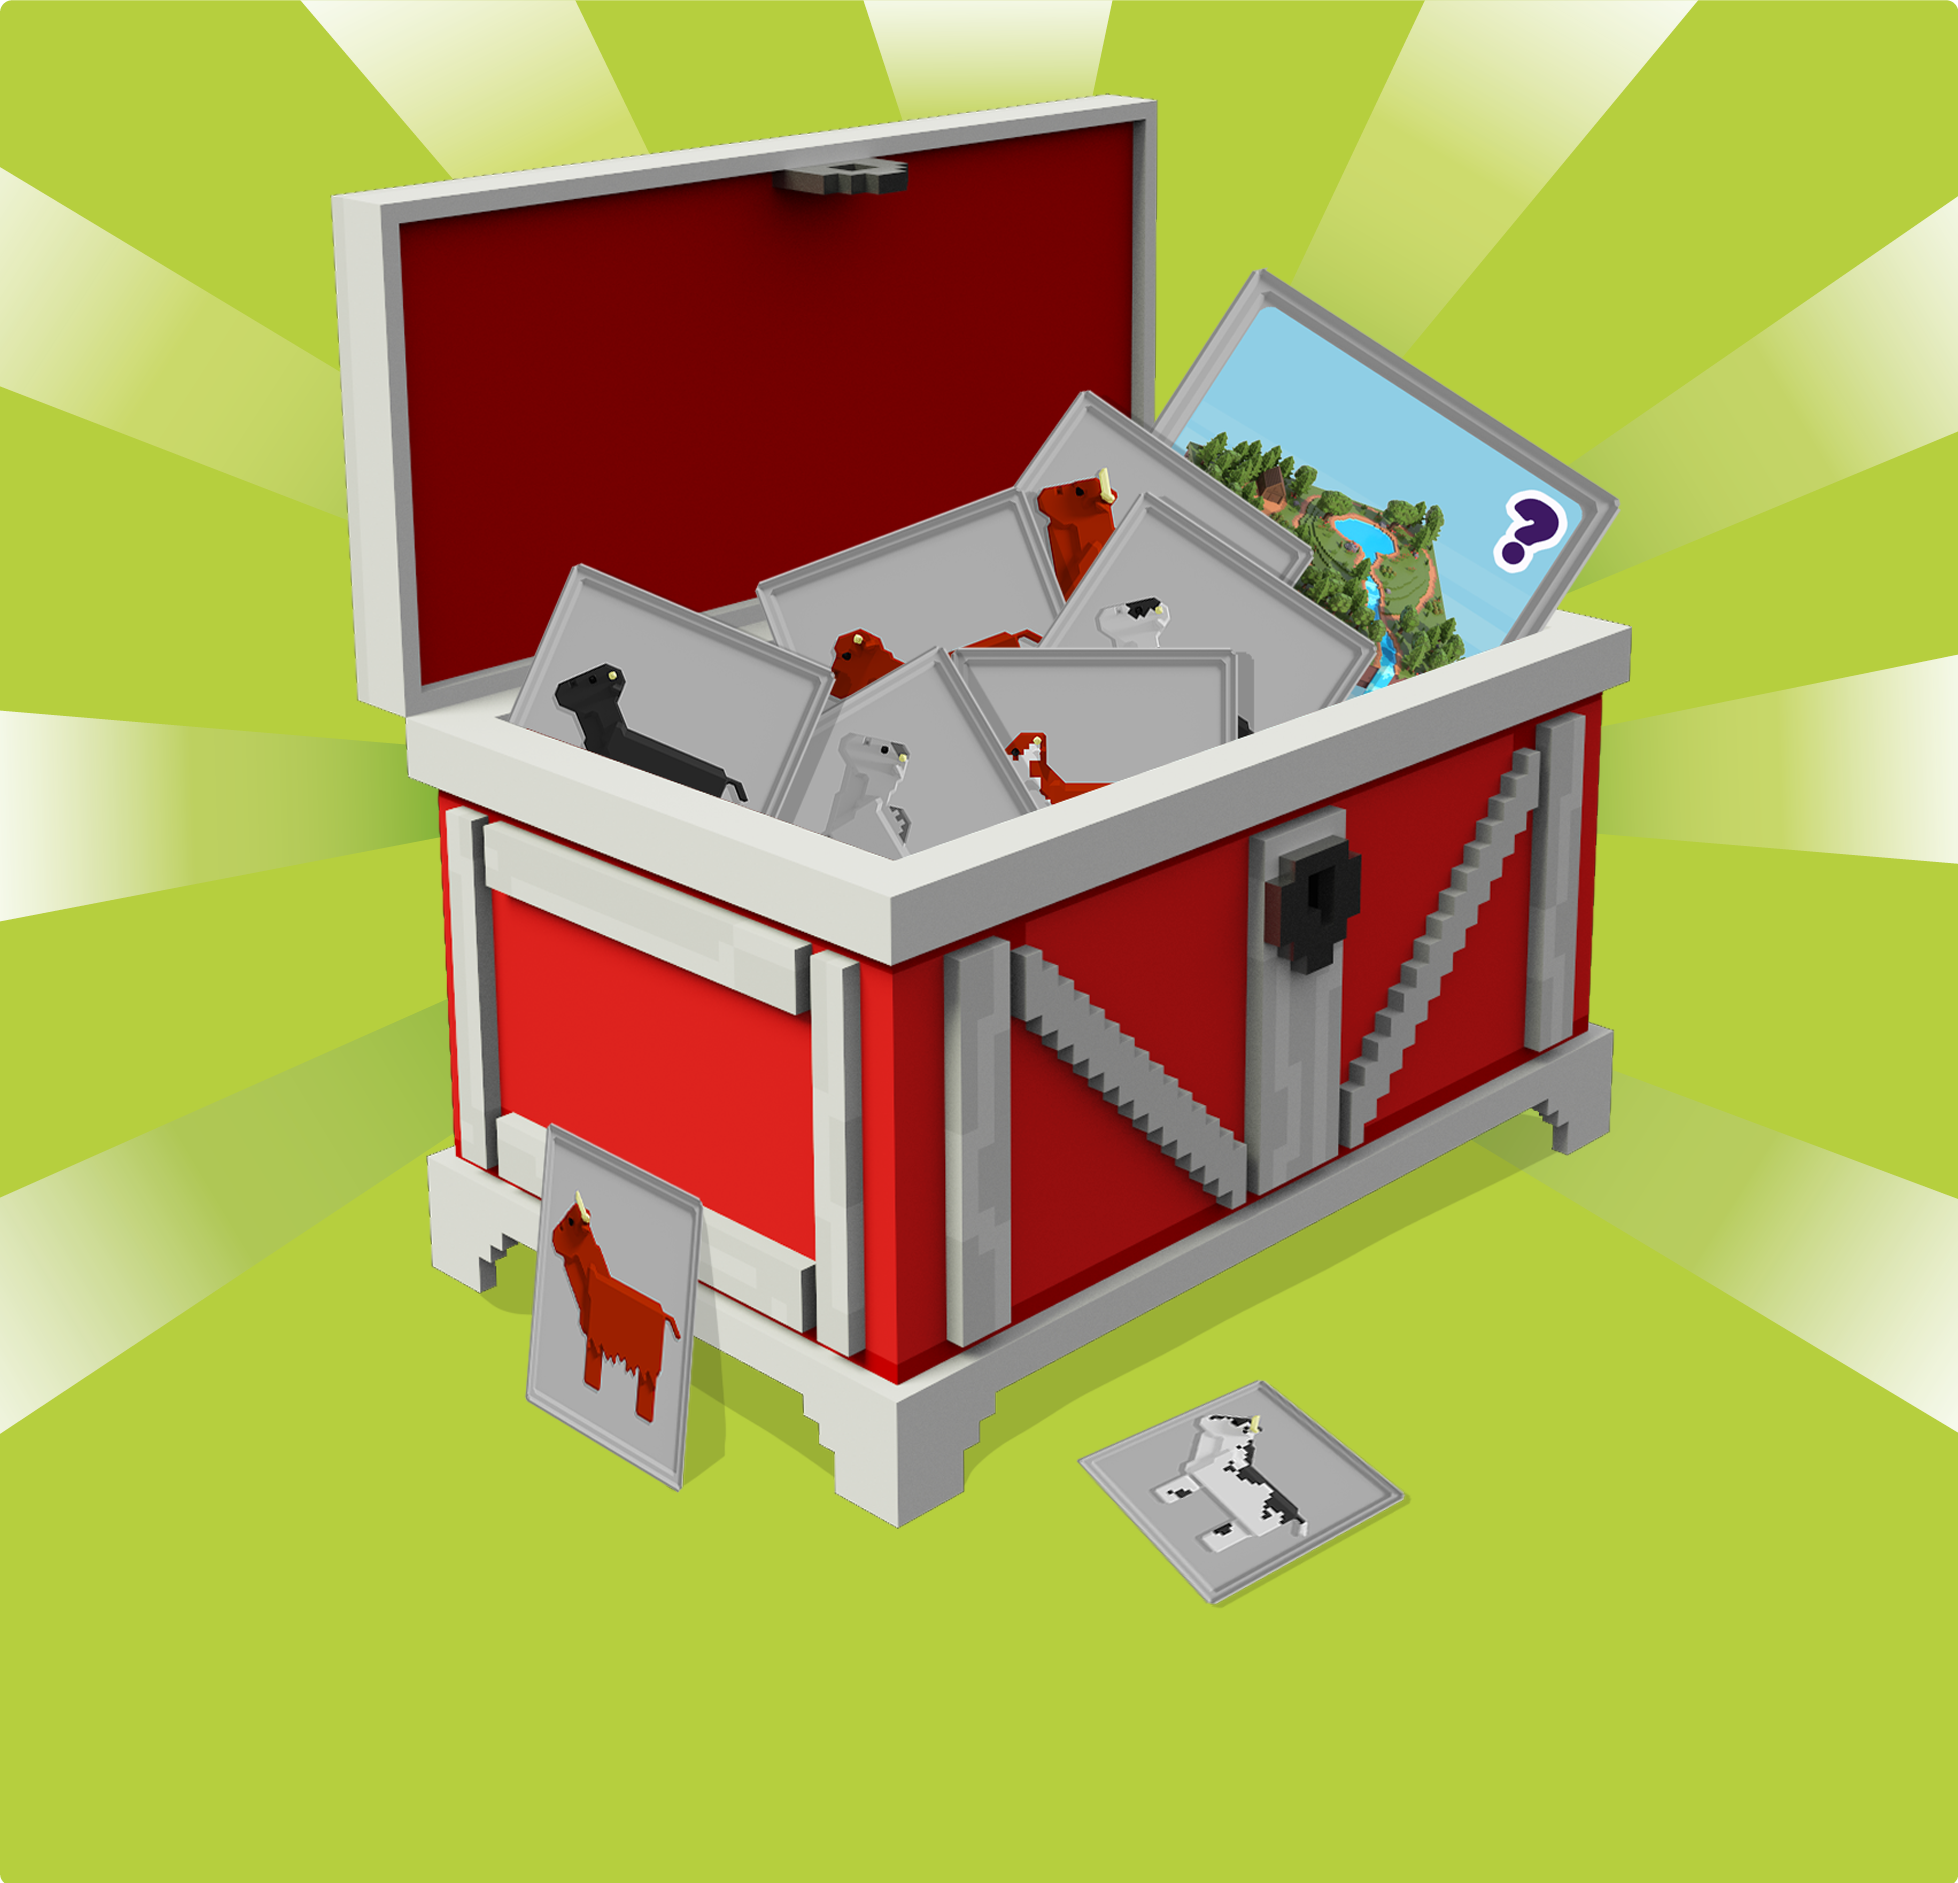
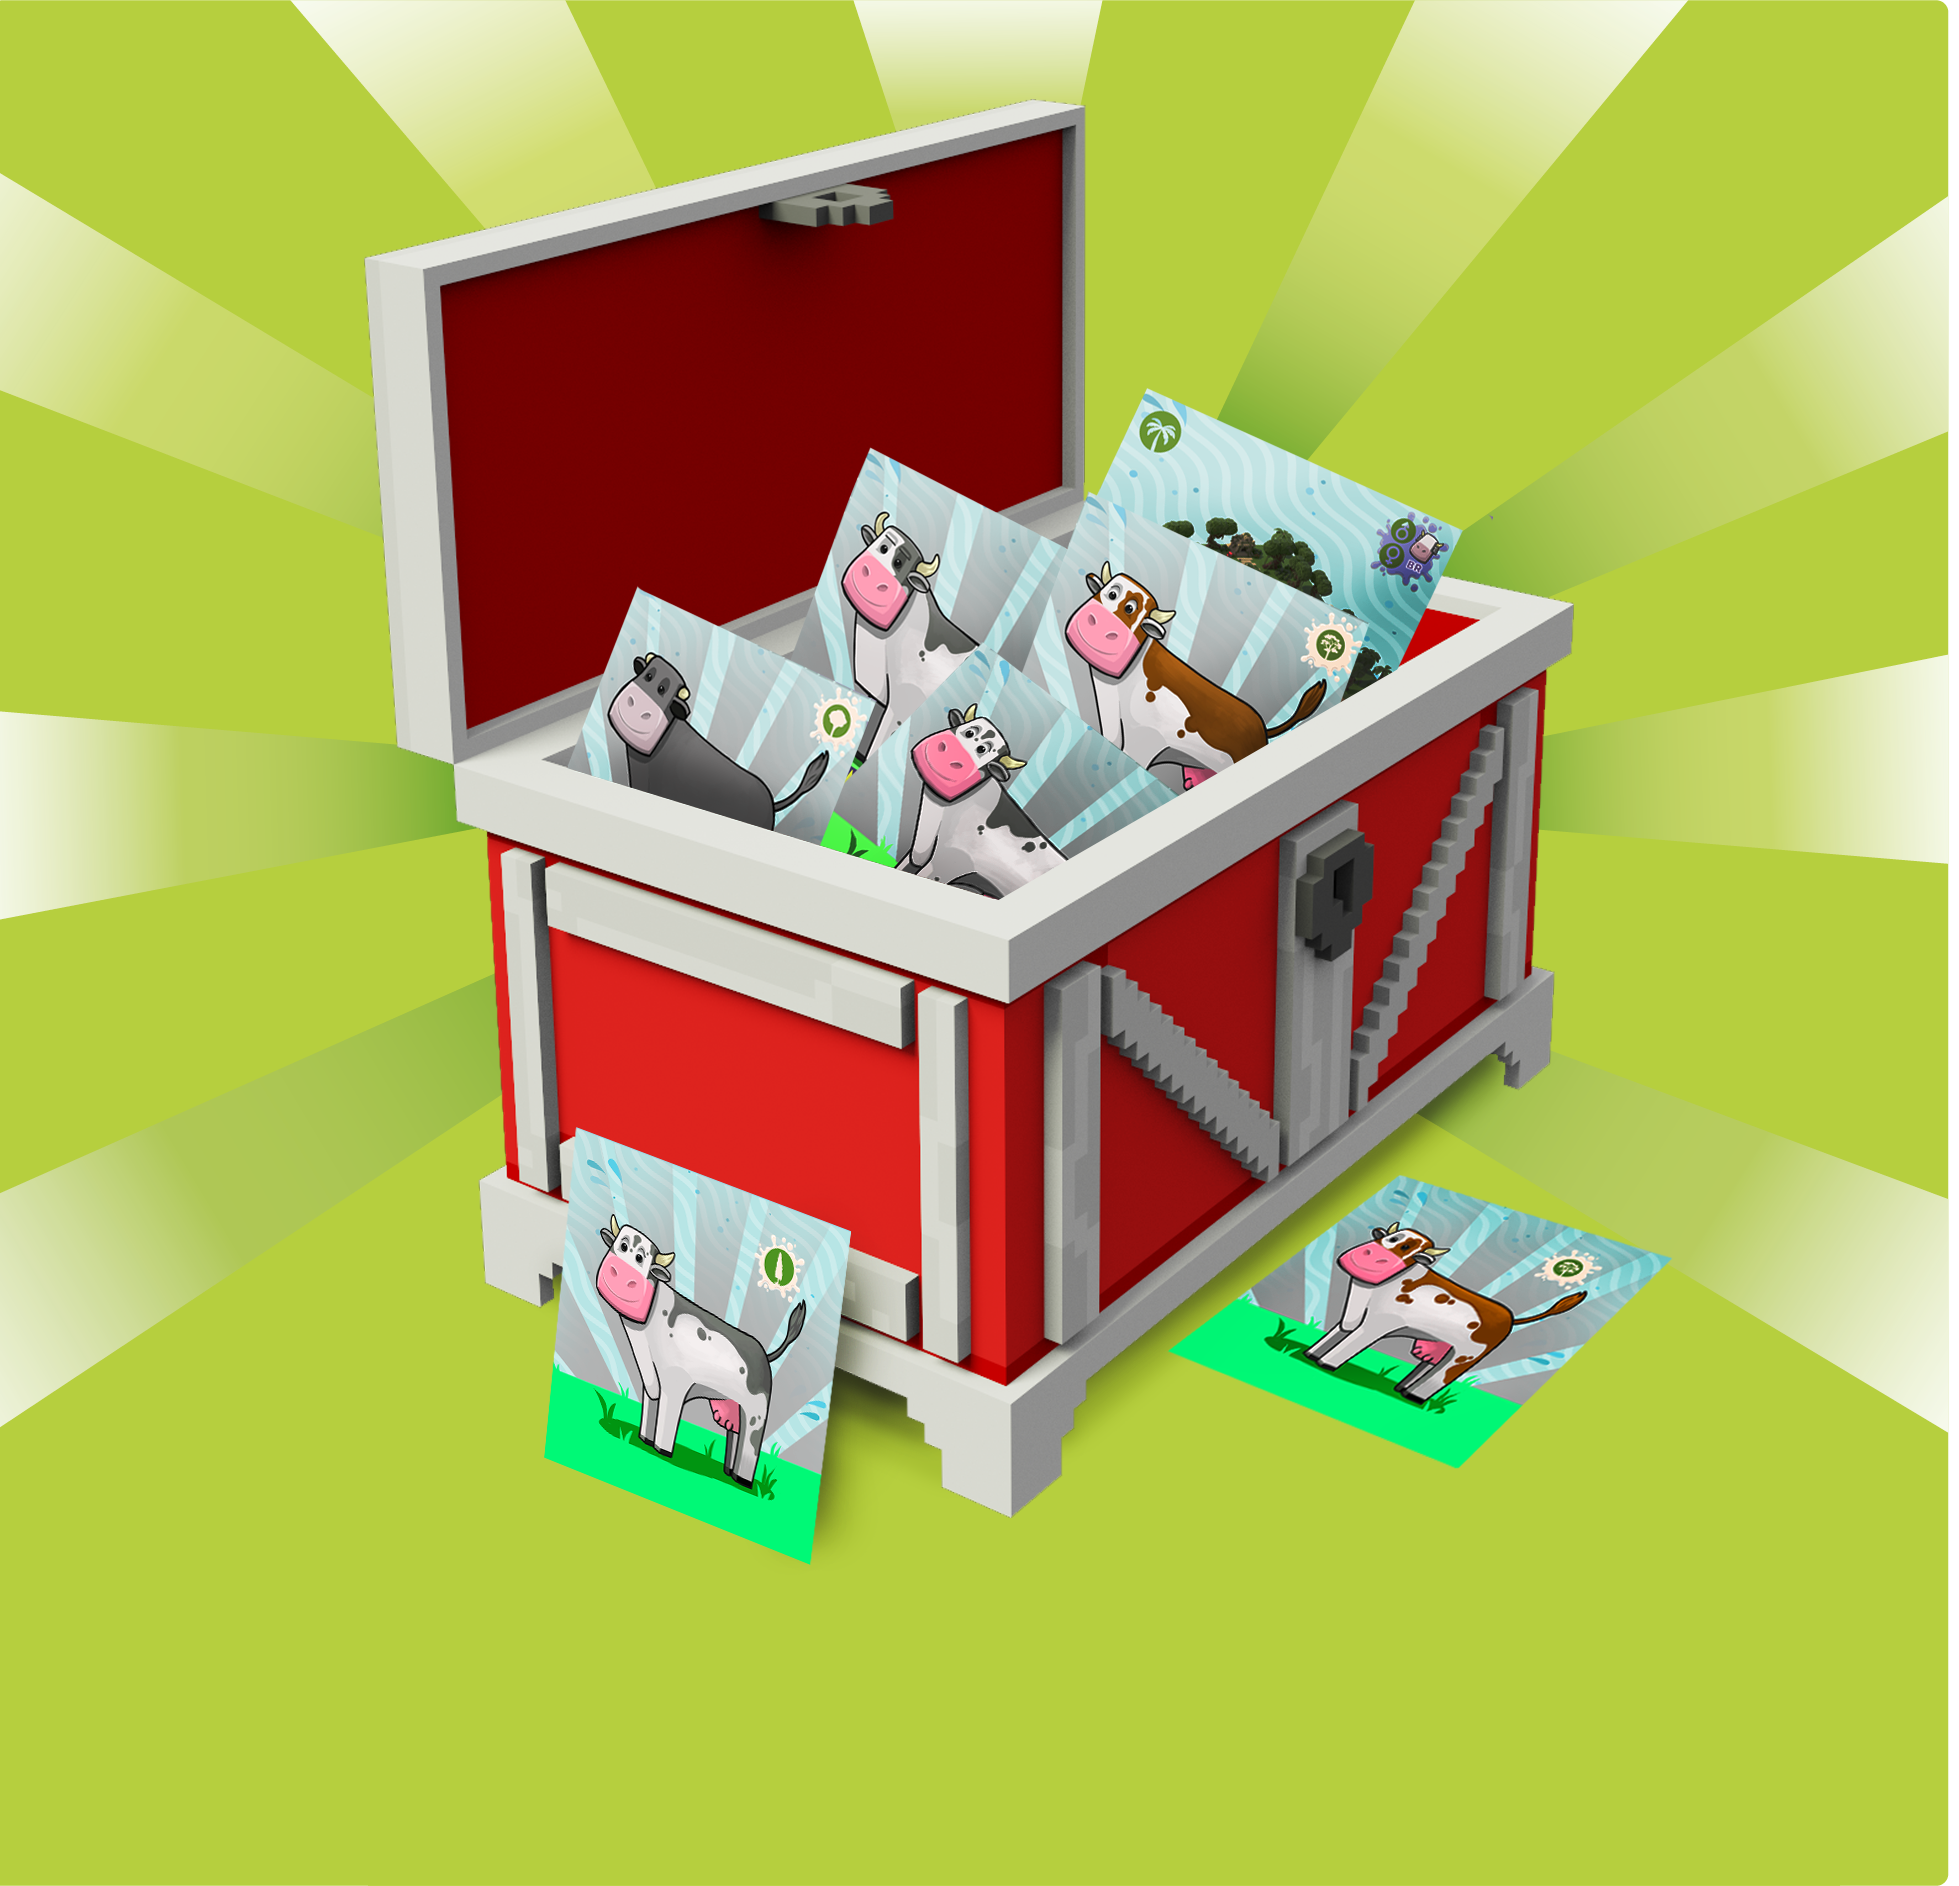
:rocket: v0.1a Fixed

diff --git a/src/views/Blindbox/index.tsx b/src/views/Blindbox/index.tsx
@@ -1,4 +1,4 @@
-import React, {useCallback, useEffect, useMemo, useState} from 'react'
+import React, { useCallback, useEffect, useMemo, useState } from 'react'
 import styled, { useTheme } from 'styled-components'
 import { Link } from 'react-router-dom'
 import { Heading } from 'cashcow-uikit'
@@ -33,24 +33,24 @@ const Blindbox = () => {
 
     const { isDark } = useTheme()
     const [packState, setPackState] = useState(2);
-    const saleContract = useMemo(() =>{
+    const saleContract = useMemo(() => {
         return new web3.eth.Contract(NftSale.abi as AbiItem[], getNftSaleAddress());
-    },[]) 
+    }, [])
     const fetchPackSaleState = useCallback(async () => {
         const endTime = await saleContract.methods.packSaleEnd().call()
         const startTIme = await saleContract.methods.packSaleStart().call()
         const currentTime = (await web3.eth.getBlock("latest")).timestamp;
-        if(toBN(currentTime.toString()).lt( startTIme ) ) {
+        if (toBN(currentTime.toString()).lt(startTIme)) {
             setPackState(0);
-        } else if(toBN(currentTime.toString()).gt( endTime ) ) {
+        } else if (toBN(currentTime.toString()).gt(endTime)) {
             setPackState(2);
         } else {
             setPackState(1);
         }
-    },[]);
-    useEffect(() =>{
+    }, []);
+    useEffect(() => {
         fetchPackSaleState();
-    },[])
+    }, [])
 
     return (
         <Page
@@ -66,13 +66,36 @@ const Blindbox = () => {
                     Blind Box
                 </Heading>
             </StyledHero>
-            <Link key={0} to={`/blind-box/1`}><BlindBoxItem background="banner_tamano_desenfocado_2940x510.png" itemId={0} itemTitle="HappyCows Box" /></Link>
-            {
+
+            <Link key={0} to={`/blind-box/1`}>
+                <BlindBoxItem
+                    background="banner_tamano_desenfocado_2940x510.png"
+                    itemId={0}
+                    itemTitle="HappyCows Box"
+                />
+            </Link>
+
+            <Link key={2} to={`/blind-box/individual`}>
+                <BlindBoxItem
+                    background="BANNER-FARM.png"
+                    itemId={0} itemTitle=""
+                />
+            </Link>
+
+            <Link key={2} to={`/blind-box/pack`}>
+                <BlindBoxItem
+                    background="BANNER-FARM-PACKS.png"
+                    itemId={1}
+                    itemTitle=""
+                />
+            </Link>
+            
+            {/* {
                 packState == 1 && <Link key={2} to={`/blind-box/pack`}><BlindBoxItem background="BANNER-FARM.png" itemId={1} itemTitle="" /></Link>
             }
             {
                 packState == 2 && <Link key={2} to={`/blind-box/individual`}><BlindBoxItem background="BANNER-FARM.png" itemId={0} itemTitle="" /></Link>
-            }            
+            }             */}
 
         </Page>
     )

diff --git a/src/views/Blindbox2/NftPack/index.tsx b/src/views/Blindbox2/NftPack/index.tsx
@@ -44,6 +44,7 @@ const NftPack = () => {
   const StyledWrapper = styled(Page)`
     position: relative;
   `
+
   return (
     <Page style={{
       backgroundImage: isDark ? `url(/images/farm_background_dark.png)` : `url(/images/farm_background.png)`,
@@ -63,11 +64,13 @@ const NftPack = () => {
       <FlexLayout>
         {
           nftPackData.map((item) => {
+
             return (
               <Link key={item.id} to={`/blind-box/${item.id}`}>
                 <NftPackItem background={item.image} title={item.title} />
               </Link>
             )
+
           })
         }
       </FlexLayout>

diff --git a/src/views/Blindbox/components/BlindBoxItem.tsx b/src/views/Blindbox/components/BlindBoxItem.tsx
@@ -19,7 +19,6 @@ const ItemBackgroundCover = styled.div`
     margin-left: auto;
     margin-right: auto;
     border-radius: 32px;
-
 `
 
 const BlindBoxItem = ({itemId, background, itemTitle}: BlindBoxItemInterface) => {
@@ -27,7 +26,7 @@ const BlindBoxItem = ({itemId, background, itemTitle}: BlindBoxItemInterface) =>
         width: 100%;
         height: 100%;
         background-image : url(images/${background});
-        background-size: 100%;
+        background-size: cover;
         background-position: 0;
         background-repeat: no-repeat;
         cursor: pointer;

diff --git a/src/views/Game/Management/GenesisSection/SelectNFT.tsx b/src/views/Game/Management/GenesisSection/SelectNFT.tsx
@@ -79,7 +79,7 @@ const SelectNFT = ({ isOpen, closeDialog, fetchOriginalUserGenesis }) => {
           console.log(fullTokenData)
           const currentGenesis = {
             "tokenId": element,
-            "image": `/images/nfts/happycows/${fullTokenData.attributes[1].value}.png`,
+            "image": `/images/nfts/happycows/${(fullTokenData.attributes[1].value).toLowerCase()}.png`,
             // "image": fullTokenData.image,
             "name": fullTokenData.name,
           };
